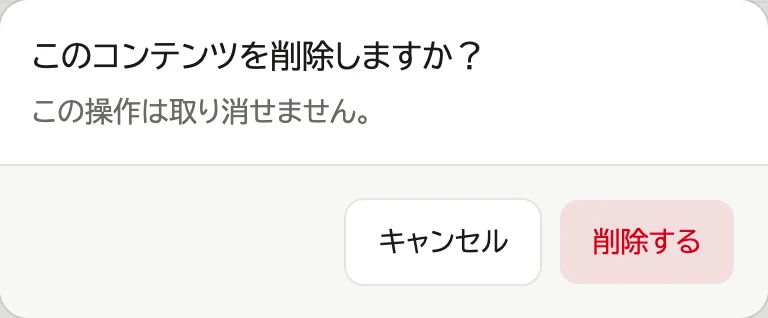
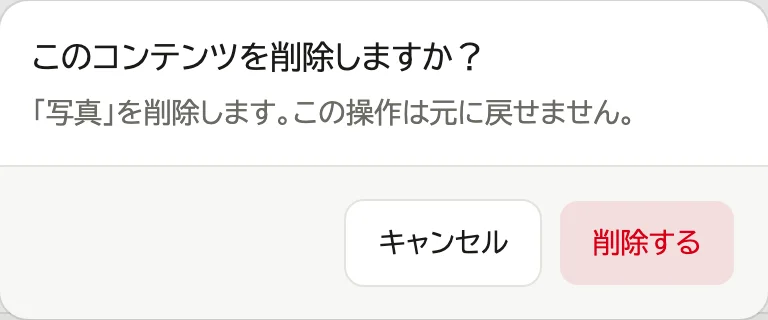
マニュアルの古い画像 10 枚を撮り直せるようにし、撮り直す
設定・編集ページ・確かめの窓・セットアップ・ホームの画像が古い文言のままで、
just manual-shots で撮り直せなかった。撮影の流れに足して撮り直す。

diff --git a/frontend/scripts/manual-shots.ts b/frontend/scripts/manual-shots.ts
@@ -1,5 +1,5 @@
 // `just manual-shots` から呼ばれる。マニュアルの画像 (docs/manual/ja/images) のうち、
-// 管理画面・音声のプレイヤーと仕組みの図を、使い捨ての backend で撮り直して WebP で書き出す (→ docs/help.md)。
+// 管理画面・セットアップの画面・閲覧側の一部の画面 (ホーム・音声のプレイヤーなど) と仕組みの図を、使い捨ての backend で撮り直して WebP で書き出す (→ docs/help.md)。
 // 画面の文言や見た目を変えたら流し直す。名前を渡すと、その画像だけを撮る (`just manual-shots roots-page`)。
 //
 // ここに無い画像 (タスクトレイ・OS の窓・ほかの閲覧側の画面など) は手で撮っている。
@@ -21,16 +21,20 @@ import {
 	DIR_PICKER_NAME,
 	PASSWORD_CONFIRM_LABEL,
 	PASSWORD_LABEL,
+	RESET_PASSWORD_MENU_ITEM_NAME,
 	ROOT_ADD_BUTTON_NAME,
 	ROW_ACTIONS_BUTTON_NAME,
 	USERNAME_LABEL,
 	USER_ADD_BUTTON_NAME,
 	USE_THIS_FOLDER_BUTTON_NAME,
+	browseLink,
 	chooseContentType,
+	deleteSectionButton,
 	openAddDialog,
 	waitForDialog
 } from '../e2e/helpers.ts';
 import { insertTestAdmin, startBackend, type Backend } from './backend-process.ts';
+import { withQuery } from '../src/lib/href.ts';
 import { gotoReady, waitForPageReady } from './shots.ts';
 import { silentWav } from './silent-wav.ts';
 import { TEST_ADMIN } from './test-account.ts';
@@ -47,17 +51,22 @@ const ADMIN_SHOTS = [
 	'user-menu',
 	'user-add',
 	'user-edit',
+	'user-password',
+	'user-delete',
 	'header-user-menu',
 	'setup-admin-menu',
 	'account-page',
 	'settings-page',
+	'settings-home',
 	'settings-server',
 	'settings-port',
 	'maintenance-backup',
+	'settings-log',
 	'contents-page',
 	'add-menu',
 	'row-edit-pen',
 	'delete-section',
+	'content-delete',
 	'register-group-menu',
 	'quickstart-add-folder',
 	'add-folder-form',
@@ -76,10 +85,16 @@ const ADMIN_SHOTS = [
 	'share-qr',
 	'viewing-player',
 	'viewing-filter',
-	'viewing-sort'
+	'viewing-sort',
+	'edit-link',
+	'edit-visibility',
+	'viewing-home',
+	'archive-values'
 ];
+/** 管理者がまだいない backend で撮るもの。 */
+const SETUP_SHOTS = ['quickstart-setup'];
 const DIAGRAM_SHOTS = ['how-it-works'];
-const ALL_SHOTS = [...ADMIN_SHOTS, ...DIAGRAM_SHOTS];
+const ALL_SHOTS = [...ADMIN_SHOTS, ...SETUP_SHOTS, ...DIAGRAM_SHOTS];
 /** コンテンツを追加の画面を順に進めて撮るもの。 */
 const FOLDER_SHOTS = [
 	'quickstart-add-folder',
@@ -154,8 +169,16 @@ function makeSharedDir(): string {
 	return realpathSync(shared);
 }
 
-/** 管理者でログインしたページを開く。ログイン画面は撮らないので API で入る。 */
-async function newPage(backend: Backend, width: number, sharedPath?: string): Promise<Page> {
+/**
+ * 管理者でログインしたページを開く。ログイン画面は撮らないので API で入る。
+ * `anonymous` なら、ログインしていない人の画面 (編集のペンなどが出ない) にする。
+ */
+async function newPage(
+	backend: Backend,
+	width: number,
+	sharedPath?: string,
+	{ anonymous = false } = {}
+): Promise<Page> {
 	const context = await browser.newContext({
 		viewport: { width, height: VIEWPORT_HEIGHT },
 		deviceScaleFactor: 2, // 画面は2倍で撮る (→ docs/help.md)
@@ -164,6 +187,7 @@ async function newPage(backend: Backend, width: number, sharedPath?: string): Pr
 	});
 	await context.addCookies([{ name: 'WEBLAV_LOCALE', value: 'ja', url: backend.baseURL }]);
 	const page = await context.newPage();
+	if (anonymous) return page;
 	await send(page.request, 'post', '/auth/login', {
 		username: TEST_ADMIN.username,
 		password: TEST_ADMIN.password
@@ -271,13 +295,14 @@ async function shotBetween(
  * 欄 (section) を、左右と下に余白を付けて撮る。上は欄の区切り線を入れないよう、見出しの少し上から。
  * `bottom` を渡すと、その要素を囲む枠の下端までにする (欄の下の区切り線を入れない)。
  * 枠が無く、すぐ下に次の項目が続くときは `bottomGap` を 0 にする。
+ * `top` を渡すと、見出しでなくその要素の少し上から撮る (欄の途中の項目だけを見せる)。
  */
 async function shotSection(
 	page: Page,
 	name: string,
 	heading: Locator,
 	bottom?: Locator,
-	{ bottomGap = 16 } = {}
+	{ bottomGap = 16, top }: { bottomGap?: number; top?: Locator } = {}
 ) {
 	const PAD = 24;
 	await box(name, heading); // 見出しが無ければ、画像の名前を出して止める
@@ -285,7 +310,7 @@ async function shotSection(
 	await page.evaluate(() => window.scrollBy(0, -40));
 	const section = page.locator('section, form').filter({ has: heading }).last();
 	const s = await box(name, section);
-	const h = await box(name, heading);
+	const h = await box(name, top ?? heading);
 	const b = bottom ? await box(name, bottom) : undefined;
 	const end = b ? b.y + b.height + bottomGap : s.y + s.height;
 	const y = h.y - 20;
@@ -363,6 +388,25 @@ async function shootUsers(page: Page) {
 			page.getByRole('button', { name: /^保存する$/ }).last(),
 			{ padBottom: 24 }
 		);
+	}
+	if (want('user-password')) {
+		// 開いたままの欄を写す (開くと最初の欄にフォーカスが移る)。保存はしない。
+		await gotoReady(page, `/admin/users/${editId}`);
+		await page.getByRole('button', { name: RESET_PASSWORD_MENU_ITEM_NAME }).click();
+		await waitForDialog(page);
+		await shotElement(page, 'user-password', dialog(page));
+		await page.keyboard.press('Escape');
+		await dialog(page).waitFor({ state: 'hidden' });
+	}
+	if (want('user-delete')) {
+		// 確かめの窓を開くだけで、消さない。後の画像にも tanaka を写すため。
+		await gotoReady(page, '/admin/users');
+		await row(page, 'tanaka').getByRole('button', { name: ROW_ACTIONS_BUTTON_NAME }).click();
+		await page.getByRole('menuitem', { name: DELETE_MENU_ITEM_NAME }).click();
+		await page.getByRole('alertdialog').waitFor();
+		await shotElement(page, 'user-delete', page.getByRole('alertdialog'));
+		await page.keyboard.press('Escape');
+		await page.getByRole('alertdialog').waitFor({ state: 'hidden' });
 	}
 	// どちらもユーザー名のメニューを写す。セットアップの直後と、ふだんのログインの章で同じものを見せる。
 	for (const name of ['header-user-menu', 'setup-admin-menu']) {
@@ -462,9 +506,11 @@ async function shootAdmin() {
 
 		const SETTINGS_SHOTS = [
 			'settings-page',
+			'settings-home',
 			'settings-server',
 			'settings-port',
-			'maintenance-backup'
+			'maintenance-backup',
+			'settings-log'
 		];
 		if (SETTINGS_SHOTS.some(want)) {
 			// 使い捨ての backend は空きポートで動く。画像には、入れた直後の値 (既定の値) を写す。
@@ -476,6 +522,13 @@ async function shootAdmin() {
 					json: { ...body, saved: body.defaults, running: body.defaults }
 				});
 			});
+			// 使い捨ての backend はログを標準出力に出すので、ダウンロードのボタンが出ない。
+			// 入れた直後と同じく、ファイルに書いている答えにする。
+			await page.route('**/api/v1/admin/log-settings', async (route) => {
+				if (route.request().method() !== 'GET') return route.continue();
+				const res = await route.fetch();
+				await route.fulfill({ response: res, json: { ...(await res.json()), fileOutput: true } });
+			});
 			await gotoReady(page, '/admin/settings');
 			if (want('settings-page'))
 				await shotBetween(
@@ -484,6 +537,12 @@ async function shootAdmin() {
 					adminNav(page),
 					page.getByRole('heading', { name: 'サイト設定', level: 1 }),
 					{ padBottom: 24 }
+				);
+			if (want('settings-home'))
+				await shotSection(
+					page,
+					'settings-home',
+					page.getByRole('heading', { name: 'ホームの表示' })
 				);
 			const serverHeading = page.getByRole('heading', { name: 'サーバー' });
 			if (want('settings-server')) await shotSection(page, 'settings-server', serverHeading);
@@ -505,6 +564,12 @@ async function shootAdmin() {
 					page,
 					'maintenance-backup',
 					page.getByRole('heading', { name: 'バックアップ' })
+				);
+			if (want('settings-log'))
+				await shotSection(
+					page,
+					'settings-log',
+					page.getByRole('heading', { name: 'ログ', exact: true })
 				);
 		}
 
@@ -537,6 +602,18 @@ async function shootAdmin() {
 			await page.waitForURL(/\/contents\/\d+$/);
 			await waitForPageReady(page);
 			await shotSection(page, 'delete-section', page.getByRole('heading', { name: /^削除$/ }));
+		}
+		if (want('content-delete')) {
+			// 確かめの窓を開くだけで、消さない。
+			await gotoReady(page, '/');
+			await editPen(page).click();
+			await page.waitForURL(/\/contents\/\d+$/);
+			await waitForPageReady(page);
+			await deleteSectionButton(page).click();
+			await page.getByRole('alertdialog').waitFor();
+			await shotElement(page, 'content-delete', page.getByRole('alertdialog'));
+			await page.keyboard.press('Escape');
+			await page.getByRole('alertdialog').waitFor({ state: 'hidden' });
 		}
 		if (want('register-group-menu')) {
 			await row(page, '旅行の思い出')
@@ -743,6 +820,154 @@ async function shootAdmin() {
 			await page.getByRole('menuitem', { name: 'QR コードを表示...' }).click();
 			await shotElement(page, 'share-qr', dialog(page));
 		}
+
+		// ここからは、上の画像に写さないコンテンツを足して撮る。
+		if (['edit-link', 'edit-visibility', 'viewing-home'].some(want)) {
+			const created = (await send(page.request, 'post', '/contents', {
+				type: 'link',
+				url: 'https://www.jma.go.jp/bosai/forecast/',
+				title: '天気予報',
+				// 説明が空だと、サーバーがリンク先へ取りに行く。入れて足してから空に戻す (更新では取りに行かない)。
+				description: '天気予報',
+				visibility: 'public'
+			})) as { id: number };
+			// 完全上書き型の PUT なので、作成時の応答をそのまま送り直す。
+			const link = (await send(page.request, 'put', `/contents/${created.id}`, {
+				...created,
+				description: null
+			})) as { id: number };
+			const notice = path.join(shared, '書類/今月の予定.pdf');
+			writeFileSync(notice, '');
+			await send(page.request, 'post', '/contents', {
+				type: 'shortcut',
+				title: '今月の予定',
+				path: notice,
+				visibility: 'public'
+			});
+
+			const basic = page.getByRole('heading', { name: '基本情報', exact: true });
+			if (want('edit-link')) {
+				await gotoReady(page, `/contents/${link.id}`);
+				await shotSection(page, 'edit-link', basic);
+			}
+			if (want('edit-visibility')) {
+				await gotoReady(page, `/contents/${link.id}`);
+				await shotSection(
+					page,
+					'edit-visibility',
+					basic,
+					page.getByRole('form', { name: '基本情報' }).getByRole('button', { name: '保存する' }),
+					{ top: page.getByText('親のグループ', { exact: true }) }
+				);
+			}
+			if (want('viewing-home')) {
+				// 見る人の画面なので、ログインしていない人で撮る (編集のペンが出ない)。
+				const phone = await newPage(backend, PLAYER_WIDTH, undefined, { anonymous: true });
+				// リンクのサイトのアイコンと更新日は、サーバーがリンク先から取ってくる。撮るたびに変わらないよう、
+				// 取れていないときの形 (ホスト名だけ) にする。
+				await phone.route(
+					(url) => url.pathname === '/api/v1/contents',
+					async (route) => {
+						const res = await route.fetch();
+						const body = JSON.parse(await res.text(), (key, value) =>
+							key === 'preview' ? null : value
+						);
+						await route.fulfill({ response: res, json: body });
+					}
+				);
+				await gotoReady(phone, '/');
+				await shotBetween(
+					phone,
+					'viewing-home',
+					phone.getByRole('combobox', { name: /^並べ替え/ }),
+					browseLink(phone, '書類'),
+					{ padTop: 16, padBottom: 16 }
+				);
+				await phone.context().close();
+			}
+		}
+
+		if (want('archive-values')) {
+			// 英語の語 (`main`・`notes`) で分ける例 (→ 07-archive-setup.md)。録音の画像を変えないよう、別のライブラリにする。
+			const english = path.join(shared, '英語');
+			mkdirSync(english);
+			for (let unit = 1; unit <= 5; unit++)
+				for (const word of ['main', 'notes'])
+					writeFileSync(path.join(english, `unit${unit}_${word}.mp3`), '');
+			const created = (await send(page.request, 'post', '/contents', {
+				type: 'folder',
+				title: '英語',
+				path: english,
+				visibility: 'public'
+			})) as { id: number };
+			// 完全上書き型の PUT なので、作成時の応答をそのまま送り直す。
+			const library = (await send(page.request, 'put', `/contents/${created.id}`, {
+				...created,
+				listView: true,
+				includePatterns: '*.mp3'
+			})) as { id: number };
+			await send(page.request, 'post', `/contents/${library.id}/rescan`);
+			const axis = (await send(page.request, 'post', `/contents/${library.id}/axes`, {
+				name: '種類',
+				source: 'filenameWord',
+				position: 0
+			})) as { id: number };
+			await send(page.request, 'put', `/contents/${library.id}/axes/${axis.id}/values`, {
+				values: [
+					{ rawValue: 'main', displayName: '本編' },
+					{ rawValue: 'notes', displayName: '解説' }
+				]
+			});
+			await gotoReady(page, `/contents/${library.id}/axes`);
+			await page.getByRole('button', { name: '種類 ファイル名の単語' }).click();
+			const heading = page.getByRole('heading', { name: '種類 の値' });
+			await heading.waitFor();
+			// 行ごとの件数と、表の下の件数の集計は、表を出した後に問い合わせて出る。
+			for (const word of ['main', 'notes'])
+				await page.getByRole('button', { name: `${word} から値が決まったファイル (5)` }).waitFor();
+			await page.getByText(/^一致: /).waitFor();
+			await shotBetween(
+				page,
+				'archive-values',
+				heading,
+				page.getByRole('button', { name: '値を追加', exact: true }),
+				{ padTop: 20, padBottom: 16 }
+			);
+		}
+	} finally {
+		await closePagesAndStop(backend);
+	}
+}
+
+/** セットアップの画面。管理者がまだいない backend でしか開けないので、別に起動する。 */
+async function shootSetup() {
+	if (!want('quickstart-setup')) return;
+	let backend: Backend;
+	starting = true;
+	try {
+		backend = await startBackend('weblav-manual-shots-setup-');
+	} finally {
+		starting = false;
+	}
+	liveBackends.add(backend);
+	try {
+		const phone = await newPage(backend, PLAYER_WIDTH, undefined, { anonymous: true });
+		// トレイの「セットアップ」と同じ口で、開くためのトークンを受け取る (この PC の中からだけ通る)。
+		const issued = await phone.request.post('/api/v1/setup/token');
+		if (!issued.ok())
+			throw new Error(`quickstart-setup: トークンを受け取れません (${issued.status()})`);
+		await gotoReady(phone, withQuery('/setup', { token: await issued.text() }));
+		// 入れ終えて、作成のボタンを押す前の形にする。
+		await phone.getByLabel(USERNAME_LABEL).fill('admin');
+		await phone.getByLabel(PASSWORD_LABEL).fill('password');
+		await phone.getByLabel(PASSWORD_CONFIRM_LABEL).fill('password');
+		await shotBetween(
+			phone,
+			'quickstart-setup',
+			phone.locator('[data-slot="card"]').first(),
+			phone.getByRole('button', { name: '管理者を作成する' }),
+			{ padBottom: 16 }
+		);
 	} finally {
 		await closePagesAndStop(backend);
 	}
@@ -784,6 +1009,7 @@ process.once('SIGINT', () => {
 
 try {
 	if (ADMIN_SHOTS.some(want)) await shootAdmin();
+	await shootSetup();
 	await shootDiagram();
 } catch (err) {
 	if (!interrupted) throw err;
